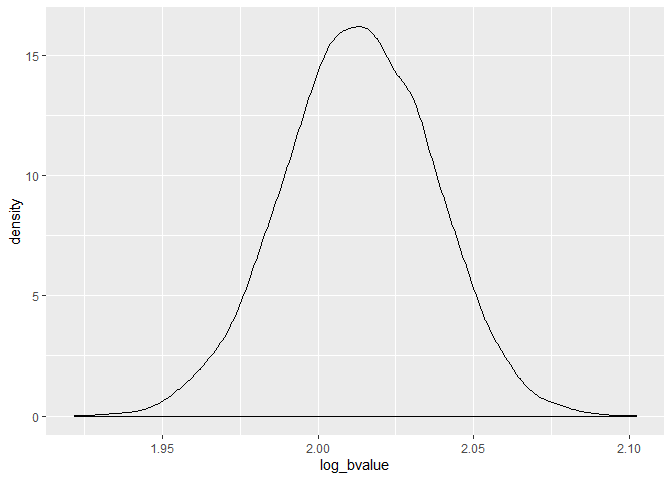
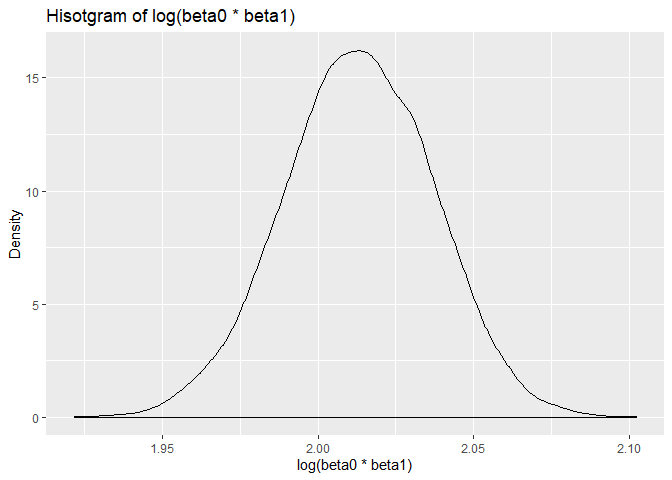
7th commit: Label plots and edited answers

diff --git a/p8105_hw6_sz2800.md b/p8105_hw6_sz2800.md
@@ -7,14 +7,14 @@ Stephanie Zhen
 library(tidyverse)
 ```
 
-    ## -- Attaching packages ------------------------------------------- tidyverse 1.2.1 --
+    ## -- Attaching packages --------------------------------------- tidyverse 1.2.1 --
 
     ## v ggplot2 3.2.1     v purrr   0.3.2
     ## v tibble  2.1.3     v dplyr   0.8.3
     ## v tidyr   1.0.0     v stringr 1.4.0
     ## v readr   1.3.1     v forcats 0.4.0
 
-    ## -- Conflicts ---------------------------------------------- tidyverse_conflicts() --
+    ## -- Conflicts ------------------------------------------ tidyverse_conflicts() --
     ## x dplyr::filter() masks stats::filter()
     ## x dplyr::lag()    masks stats::lag()
 
@@ -139,12 +139,17 @@ bw_pred = bw_clean %>%
 bw_resid_pred = cbind(bw_resid, bw_pred)
 
 bw_pred_resid_plot = ggplot(bw_resid_pred, aes(x = pred, y = resid)) +
-  geom_point()
+  geom_point() + 
+  labs(x = 'Predicted values', y = 'Residuals', 
+       title = 'Plot of predicted values vs Residuals')
 
 bw_pred_resid_plot
 ```
 
-![](p8105_hw6_sz2800_files/figure-gfm/unnamed-chunk-4-1.png)<!-- -->
+![](p8105_hw6_sz2800_files/figure-gfm/unnamed-chunk-4-1.png)<!-- --> The
+spread of the residuals is not constant. Although most are centered at
+0, there seems to be observations that are above 1000. It might be a
+better idea to graph standardized residuals than just residuals itself.
 
 Model 2: using length at birth and gestational age as predictors (main
 effects only):
@@ -256,12 +261,11 @@ bw_cv_pre = bw_cv %>%
     values_to = "rmse",
     names_prefix = "rmse_")
 
-
-
 bw_cv_plot = 
   ggplot(bw_cv_pre, aes(x = model, y = rmse)) + 
-  geom_violin()
-
+  geom_violin() +
+  labs(x = 'Models', y = 'Root mean square error (RMSE)', 
+       title = 'Comparing models using RMSE')
 
 bw_cv_plot
 ```
@@ -358,13 +362,15 @@ mean(log_beta_int)
     ## [1] 2.025233
 
 The mean of log(beta0 \* beta1) is centered at 2.02 with a 95%
-confidence interval of (1.9649, 2.051).
+confidence interval of (1.9649, 2.0586).
 
 ``` r
 log_beta_plot = log_beta_pre %>% 
   ggplot(aes(x = log_bvalue)) +
-  geom_density()
-
+  geom_density() +
+  labs(x = 'log(beta0 * beta1)', y = 'Density', 
+       title = "Hisotgram of log(beta0 * beta1)")
+       
 log_beta_plot
 ```
 
@@ -373,13 +379,13 @@ log_beta_plot
 The log(beta0 \* beta1) is a symmtrical bell shaped curve that follows a
 normal distribution. This is most likely because of the large bootstrap
 sample of 500 samples. It is centered around 2.02 with 95% confidence
-interval of (1.9649, 2.051).
+interval of (1.9649, 2.0586).
 
 R^2 95% confidence interval and denisty plot.
 
 ``` r
 r2_pre = weather_df %>% 
-  modelr::bootstrap(n = 1000) %>% 
+  modelr::bootstrap(n = 5000) %>% 
   mutate(
     models = map(strap, ~lm(tmax ~ tmin, data = .x)),
     results = map(models, broom::glance)) %>% 
@@ -389,7 +395,9 @@ r2_pre = weather_df %>%
 
 r2_plot = r2_pre %>% 
   ggplot(aes(x = r_squared)) +
-  geom_density()
+  geom_density() +
+  labs(x = 'R-squared', y = 'Density', 
+       title = "Hisotgram of R-squared")
 
 r2_plot
 ```
@@ -405,14 +413,14 @@ r2_int
 ```
 
     ##      2.5%     97.5%       95% 
-    ## 0.8916186 0.9269136 0.9254036
+    ## 0.8933116 0.9272795 0.9250686
 
 ``` r
 mean(r2_int)
 ```
 
-    ## [1] 0.9146453
+    ## [1] 0.9152199
 
 The histogram of the r^2 values is bell shaped and looks like it skews
 left very slightly. The mean is centered at 0.9152 with 95% confidence
-interval (0.8948, 0.9264).
+interval (0.8948, 0.927).
